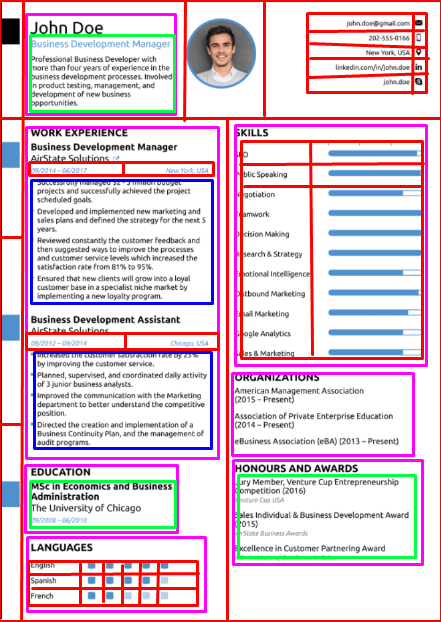
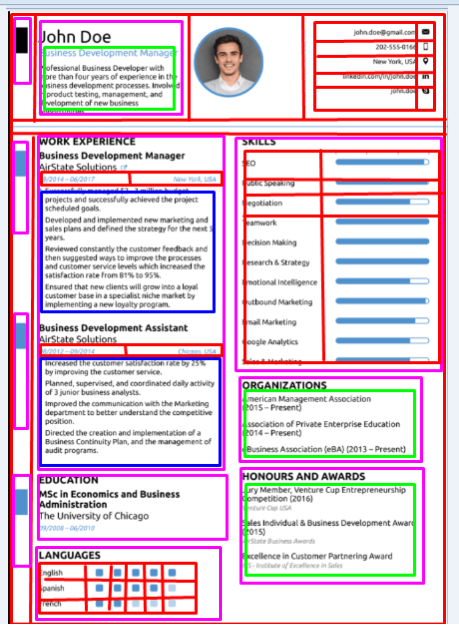
marked modifed

diff --git a/resume3.html b/resume3.html
@@ -2,7 +2,7 @@
 <html>
 
 <head>
-
+<titile>Resume-3</titile>
 </head>
 
 <body>
@@ -164,7 +164,7 @@
                             </td>
                         </tr>
                     </table>
-                    <uli>
+                    <ul>
                         <li>Successfully managed $2 - 2 millions budget projects and successfully accived the project
                             sheduels goal</li>
                         <li>Developed and implemneted new marketing and sales plans and defined the strategy for the
@@ -176,7 +176,7 @@
                             by
                             implemneing
                             a new loyality program</li>
-                    </uli>
+                    </ul>
                     <p><b>Business deveplopment Assistant</b></p>
                     <p>AirState Solutions</p>
                     <table border="1" cellspacing="0" align="center" width="100%">
@@ -189,7 +189,7 @@
                             </td>
                         </tr>
                     </table>
-                    <uli>
+                    <ul>
                         <li>Incresed the customer satisfation rate by 25% by improving teh customer service </li>
                         <li>Planned supervised and coordinated daily actively of 3 junior business analysist </li>
                         <li>Improved teh commnication with teh merketings depertment to better understand teh
@@ -199,7 +199,7 @@
                             auddit
                             prograam
                         </li>
-                    </uli>
+                    </ul>
                 </div>
                 <div>
                     <h4>EDUCATION</h4>
